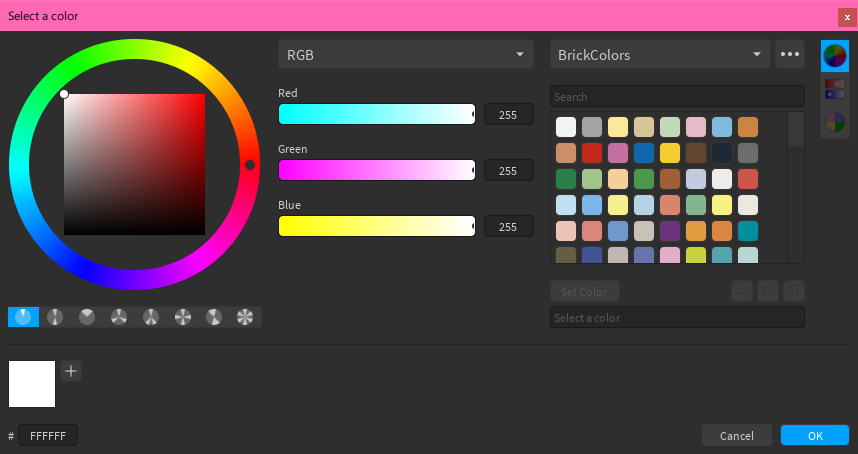
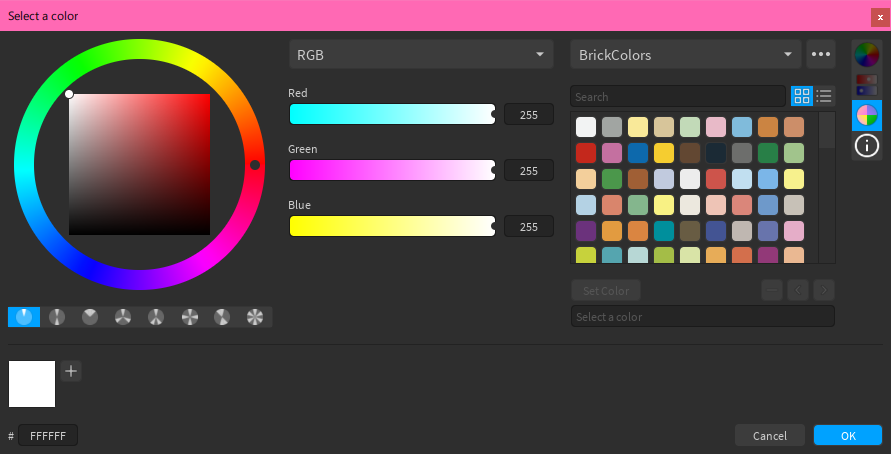
Update documentation for 0.2
- Planned for release on 29 March

diff --git a/docs/user-guide/color-editor.md b/docs/user-guide/color-editor.md
@@ -4,7 +4,7 @@ The color editor has several components to it:
 
 [TOC]
 
-If the editor window is large enough, then the color wheel, sliders, and palettes will be shown at the same time, otherwise you can use the button bar at the right of the window to pick which one to view. By default, the window is only large enough to show the wheel and sliders.
+If the editor window is large enough, then all of the components will be shown at the same time, otherwise you can use the button bar at the right of the window to pick which one to view. By default, the window is only large enough to show the wheel and sliders.
 
 Outside of being used in a plugin, you can use the plugin toolbar to bring up the color editor at any time.
 
@@ -12,7 +12,7 @@ Outside of being used in a plugin, you can use the plugin toolbar to bring up th
 
 ![Color wheel](../images/color-wheel.png)
 
-The color wheel is an [HSB](https://wikipedia.org/wiki/HSL_and_HSV) color wheel with a square for the Saturation and Brightness. There is a button bar at the bottom for basic color harmonies. The main color markers are denoted as circles, while any harmonies are denoted as squares.
+The color wheel is a standard [HSB](https://wikipedia.org/wiki/HSL_and_HSV) color wheel, with a ring for the hue and an inner square for the saturation and brightness. There is also a button bar at the bottom for basic color harmonies. The main color markers are denoted as circles, while any harmonies are denoted as squares.
 
 ## Sliders
 
@@ -28,30 +28,52 @@ There are 6 types of sliders:
 - Temperature
     - Lets you pick colors corresponding to Kelvin temperatures, with some presets. Implementation is based on [neilbartlett's color-temperature](https://github.com/neilbartlett/color-temperature).
 
+!!! hint
+    On the Slider and Palette editors, you can use the scroll wheel on the respective page selector to traverse the page list without having to open the dropdown.
+
 ## Palettes
 
-![The palettes view](../images/palettes.png)
+![The grid view for palettes](../images/palettes.png)
 
-Palettes let you store lists of colors. The overflow menu lets you create, delete, rename, and duplicate palettes.
+Palettes let you store lists of colors. The overflow menu lets you create, duplicate, rename and delete palettes. You can use the search bar to filter colors, and you can use the ![plus](../images/plus.png) button to add colors to the palette.
 
-You can use the search bar to filter colors, and you can use the ![plus](../images/plus.png) button to add colors to the palette. Clicking on a color will select it, which allows you to use the color options:
+!!! hint
+    By default you will be prompted to name palettes before creating them. You can disable this in the Settings.
 
-- The *Set Color* button will set the current color to the selected color (you can also double-click on a color to do this)
+### Grid View
+
+Grid view (pictured above) is the default view for palettes, and allows for easy access to colors. Clicking on a color will select it, which allows you to use the color options:
+
+- The *Set Color* button will set the current color to the selected color (you can also double-click on the color)
 - The ![minus](../images/minus.png) button will remove the color from the palette
 - The ![left](../images/left.png) and ![right](../images/right.png) buttons will move the color around the list
 - You can rename the color using the text box
 
-ColorPane includes two built-in palettes:
+### List View
 
-- A BrickColor palette
+![The list view for palettes](../images/palettes-list.png)
+
+List view is useful for palettes where the color names are important. Clicking on a list item will select it, which shows the color options:
+
+- The ![minus](../images/minus.png) button will remove the color from the palette
+- The ![up](../images/up.png) and ![down](../images/down.png) buttons will move the color around the list
+- The name label will turn into a text box, with which you can change the name of the color
+
+To set the current color, click on the color box inside the list item.
+
+### Built-In Palettes
+
+ColorPane includes some built-in palettes:
+
+- A [BrickColor](https://developer.roblox.com/articles/BrickColor-Codes) palette
 - A page for the [ColorBrewer](https://colorbrewer2.org) palettes (clicking on a color in the ColorBrewer page will immediately set the current color instead of selecting it)
+- A [web colors](https://www.w3.org/TR/2020/WD-css-color-4-20201112/#named-colors) palette
 
-!!! info
-    You cannot create a palette with any of the following names, as they correspond to the names of built-in palettes (case in-sensitive):
+## Color Information
 
-    - BrickColor
-    - BrickColors
-    - ColorBrewer
+![The color information](../images/color-info.png)
+
+The information page shows the components for different color conversions. You can copy from the text boxes if you need to use the color somewhere else, or paste into the text boxes (in the format you see) to change the color.
 
 ## Quick Palette
 

diff --git a/changelog.md b/changelog.md
@@ -1,4 +1,4 @@
-## Unreleased
+## [0.2.0] - 2021-03-29
 ### Added
 - Added a Settings window
 - Integrated the functionality of ColorProps into ColorPane, with the option to automatically load the window at startup in the Settings
@@ -12,7 +12,7 @@
 - Color Properties: You can now click anywhere inside a property list item to edit the color, not just on the item's color indicator
 - Changed the behaviour of the palette grid double-click shortcut: clicking on the color at any time after it has been selected will set the current color, not just within the amount of time that would be considered a "double click"
 - When searching for a palette color, if the selected color is included in the filtered list, it will now stay selected instead of being deselected
-- You will now be asked to input a name *before* creating new palettes, with the option to disable the prompt in the Settings
+- You will now be asked to input a name *before* creating new palettes, with the option to disable this in the Settings
 - The palette naming prompt will now show you what the actual new name will be if the inputted name is already being used
 
 ### Fixed
@@ -21,8 +21,7 @@
 - Improved the performance of multiple components, the effects of which will be particularly noticable when resizing editor windows or using the palettes page
 - The editor page bar in the color editor window now correctly highlights the currently-chosen editor page
 - Editor pages in the color editor now have the proper minimum width, previously the calculations did not take padding into account and ended up making them slightly smaller than the minimum
-- Fixed improper behaviour in the color wheel due to some misplaced code
-  - The color value should update when the left mouse button is pressed down on the SB-plane, however it occurred when the mouse button was released instead
+- Fixed improper behaviour in the color wheel due to some misplaced code: the color value should have updated when the left mouse button was pressed down on the saturation-brightness square, however it occurred when the mouse button was released instead
 
 ### Removed
 - Removed the undocumented `OpenColorEditor` function from the API

diff --git a/README.md b/README.md
@@ -1,11 +1,13 @@
 # ColorPane
 
-ColorPane is a color editor plugin and API for use in other Roblox Studio plugins. You can install it [from the library](https://roblox.com/library/6474565567/ColorPane) or grab a [release](https://github.com/Blupo/ColorPane/releases) and install it manually, and you can read the documentation [here](https://blupo.github.io/ColorPane).
+ColorPane is a color editor plugin for Roblox Studio. It features pickers for colors and ColorSequences, a property editor, as well as an API for integration in other plugins.
 
-If you want to support ColorPane's development, consider [donating](https://ko-fi.com/blupo).
+You can install it [from the library](https://roblox.com/library/6474565567/ColorPane) or grab a [release](https://github.com/Blupo/ColorPane/releases) and install it manually, and you can read the documentation [here](https://blupo.github.io/ColorPane). If you want to support ColorPane's development, consider [donating](https://ko-fi.com/blupo).
 
 ## Screenshots
 
 ![The color editor](docs/images/all-editors.png)
 
 ![The ColorSequence editor](docs/images/colorsequence-editor.png)
+
+![The color properties window](docs/images/color-properties.png)

diff --git a/docs/user-guide/api-integrations.md b/docs/user-guide/api-integrations.md
@@ -1,0 +1,15 @@
+ColorPane has an API that allows other plugins to use its color pickers. As the user, you can control whether or not these plugins are allowed to use the API, and whether or not you want to allow this automatically.
+
+To manually load the API, click on the *Load API* button in the plugin's toolbar. If the operation succeeds, the button will become disabled.
+
+![The plugin toolbar](../images/toolbar.png)
+
+!!! info
+    Loading the API requires script injection, and you will be prompted to allow this if this is the first time you're loading the API.
+
+You also have the option to load the API automatically at startup. To do this, go to the Settings window and enable the *Automatically load the API on startup* option.
+
+![The settings window showing the option to automatically load the API as enabled](../images/settings-autoload-api.png)
+
+!!! info
+    If you have enabled automatic loading and script injection is not allowed, a warning will be sent to the output on startup telling you that the API could not be loaded, and to enable script injection.

diff --git a/docs/index.md b/docs/index.md
@@ -1,12 +1,14 @@
 # ColorPane
 
-ColorPane is a color editor plugin and API for use in other Roblox Studio plugins. You can install it [from the library](https://roblox.com/library/6474565567/ColorPane) or grab a [release](https://github.com/Blupo/ColorPane/releases) and install it manually.
+ColorPane is a color editor plugin for Roblox Studio. It features pickers for colors and ColorSequences, a property editor, as well as an API for integration in other plugins.
 
-If you want to support ColorPane's development, consider [donating](https://ko-fi.com/blupo).
+You can install it [from the library](https://roblox.com/library/6474565567/ColorPane) or grab a [release](https://github.com/Blupo/ColorPane/releases) and install it manually. If you want to support ColorPane's development, consider [donating](https://ko-fi.com/blupo).
 
 ![The color editor](images/all-editors.png)
 
 ![The ColorSequence editor](images/colorsequence-editor.png)
+
+![The color properties window](images/color-properties.png)
 
 ---
 

diff --git a/docs/user-guide/color-properties.md b/docs/user-guide/color-properties.md
@@ -1,0 +1,12 @@
+The Color Properties window allows you to view and edit the color properties of objects using ColorPane's editors. You can toggle the window using the associated button in the toolbar.
+
+![The color properties window](../images/color-properties.png)
+
+By default, the window will not be activated, since the Roblox API data is not loaded in by default. You will need to click the *Load* button and wait for the data to load.
+
+!!! info
+    Loading the Roblox API data requires an HTTP request, and you will be prompted to allow this if this is the first time you're loading the data.
+
+If you want the window to automatically load at startup, you can either toggle the option below the *Load* button or toggle the option in the Settings window.
+
+![The unloaded color properties window](../images/color-properties-unloaded.png)

diff --git a/docs/user-guide/colorsequence-editor.md b/docs/user-guide/colorsequence-editor.md
@@ -4,7 +4,7 @@
 
 You can add a new keypoint by clicking on the empty space in the gradient view, as long as your cursor isn't snapped to another keypoint and you haven't reached the keypoint limit.
 
-You can remove a keypoint by selecting it and pressing the ![minus](../images/minus.png) button, or you can right-click on it (without having to select it). 
+You can remove a keypoint by selecting it and pressing the ![minus](../images/minus.png) button, or you can right-click on it. 
 
 ## Editing Keypoints
 

diff --git a/docs/api/usage.md b/docs/api/usage.md
@@ -69,7 +69,3 @@ end)
 
 !!! info
     Any open prompts will be closed and their associated Promises will be cancelled automatically, and any connections to Unloading will be disconnected automatically.
-
-## Example: ColorProps
-
-[ColorProps](https://www.roblox.com/library/6494015679) is plugin that lets you view and edit the color properties of objects using ColorPane. You can [view its source code](https://github.com/Blupo/ColorProps) if you want to see an example of a plugin that uses ColorPane.
